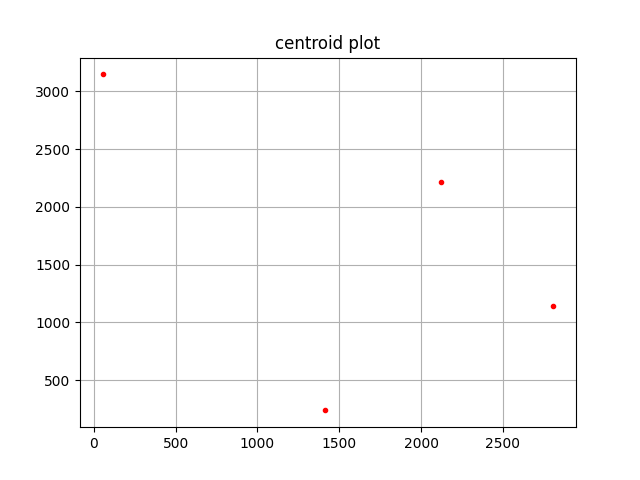
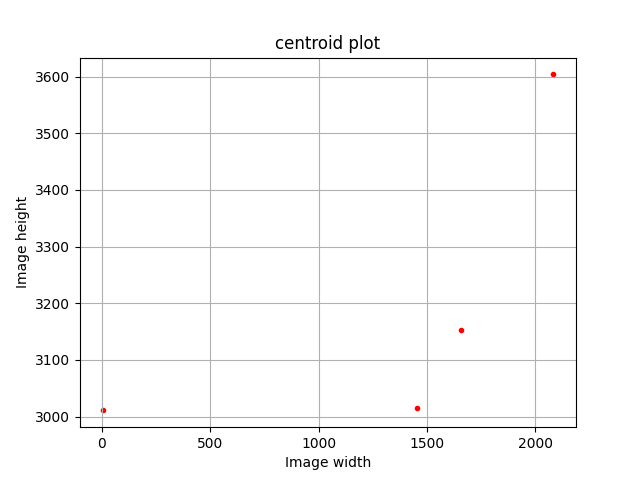
partial implementation of k-means

diff --git a/src/core/kmeans.py b/src/core/kmeans.py
@@ -7,36 +7,151 @@ import random
 from src.core.kmeans import *
 from src.processing.models import *
 
-def two_means(img: ELMImage, k: int):
-    hsv_arr = img.hsv_arr
+def k_means(img: ELMImage, k: int, select: int):
     rgb_arr = img.rgb_arr
 
-    # dictionary for all clusters
-    clusters = {}
+    centroids = []
+
+    r, g, b = cv2.split(rgb_arr)
+
+    r = np.array(r.flatten())
+    g = np.array(g.flatten())
+    b = np.array(b.flatten())
+
+    
 
     # idea for centroid key is the # of the centroid, value coresponds to the coordiante
-    centroids = generate_centroids(img.width, img.height, k)
+    if select == 1:
+        centroids = generate_rgb_centroids(k)
+    elif select == 0:
+        centroids = generate_hsv_centroids(k)
+    
+    pixels = len(r)
 
-    # # iterate over entire image
-    # for i in range(img.width):
-    #     for j in range(img.height):
+    # exit conditions
+    # i.e. exit when max iterations reached on the centroid stops moving
+    max_iter = 8
+    moved = True
 
-def generate_centroids(width: int, height: int, k: int):
-    centroids = {}
+    iter = 0
+
+    while moved and iter <= max_iter:
+        iter += 1
+
+        # initialize an assignment array of size pixels
+        # each indice represents a pixel and contains the closest distance to a centroid
+        assignment = [0]*pixels
+
+        # for each pixel
+        for i in range(pixels):
+
+            # create distance array size of number of k-means
+            # basically we calculate the distance for a given pixel, determine which one it is the min to
+            # and then assign it to that centroid
+            distances = [0]*k
+            for j in range(k):
+                distances[j] = distance(centroids[j], [r[i], g[i], b[i]])
+
+            # find the smallest distance, corresponding to a centroid k
+            # closest is an indice corresponding to closest k centroid
+            closest = np.argmin(distances)
+
+
+            assignment[i] = closest
+
+        # use prev_centroid to compare with curr centroid to see if centroid have moved or not
+        prev_centroids = centroids.copy()
+        
+        # calculate the mean for each cluster
+        for i in range(k):
+
+            # get a list of pixel indices that correspond to the i-th k-mean
+            ind = [j for j in range(pixels) if assignment[j] == i]
+
+            # calculate the new mean for each cluster
+            # i.e. we find the mean for each channel by averaging all the relevant pixels' channels
+            if len(ind) != 0:
+                centroids[i][0] = np.mean(r[ind])
+                centroids[i][1] = np.mean(g[ind])
+                centroids[i][2] = np.mean(b[ind])
+            
+            # if cluster empty then must mean that color is not part of image
+            else:
+                centroids[i][0] = 0
+                centroids[i][1] = 0
+                centroids[i][2] = 0
+
+        # check if the centroids have moved after each iteration
+        if np.array_equal(centroids, prev_centroids):
+            moved =  False
+    
+    r_copy = np.array(r.copy())
+    g_copy = np.array(g.copy())
+    b_copy = np.array(b.copy())
+
+    # update pixels to match their corresponding cluster
+    for i in range(k):
+        ind = [j for j in range(pixels) if assignment[j] == i]
+
+        r_copy[ind] = centroids[i][0]
+        g_copy[ind] = centroids[i][1]
+        b_copy[ind] = centroids[i][2]
+    
+    img2 = np.array([r_copy, g_copy, b_copy])
+
+    img2 = img2.transpose()
+
+    img2 = img2.reshape(img.shape)
+
+    plt.axis('off')
+    plt.imshow(img2)
+
+    plt.savefig("2k-means.png", format="png", dpi=600)
+
+
+
+        
+
+
+
+
+
+
+
+    
+ 
+def generate_rgb_centroids(k: int):
+    centroids = []
 
     for i in range(k):
         # assign randomly generated centroids
-        x = random.randint(0, width - 1)
-        y = random.randint(0, height - 1)
-        centroids[f"c{i + 1}"] = (x,y)
+        r = random.randint(0, 255)
+        g = random.randint(0, 255)
+        b = random.randint(0, 255)
+        centroids.append((r,g,b))
     
     return centroids
 
+def generate_hsv_centroids(k: int):
+    centroids = []
+
+    for i in range(k):
+        h = random.randint(0, 179)
+        s = random.randint(0, 255)
+        v = random.randint(0, 255)
+        centroids.append((h,s,v))
+
+    return centroids
+
+
+
 
 # Calculates the Euclidean distance between the two based on the
-# distance
+# Since we are using image segmentation use the channels instead of actual distance
+# Maybe make arguments as (x,y) tuple
+# p1 and p2 are pixels in the image, colour is split into three channels in a list
 def distance(p1, p2):
-    return np.sqrt(np.sum((p1-p2)**2))
+    return np.sqrt((p1[0] - p2[0])**2 + (p1[1] - p2[1])**2 + (p1[2] - p2[2])**2)
 
 
 

diff --git a/tests/test_kmeans.py b/tests/test_kmeans.py
@@ -7,39 +7,25 @@ from src.core.kmeans import *
 from src.processing.models import *
 
 # tests the x,y coordinates generated from the function
-def test_centroid_gen_key():
-    dir = "data/test-images/img1.png"
-    img = ELMImage(dir)
+def test_rgb_centroid_gen():
     k = 2
-    actual_centroids = generate_centroids(img.width, img.height, k)
-    centroid_keys = list(actual_centroids.keys())
-    for i in range(k):
-        assert centroid_keys[i] == f"c{i + 1}"
+    centroids = generate_rgb_centroids(k)
 
-# disregard test, want to see what it looks like in 2d
-def test_centroid_plot():
-    dir = "data/raw/20241116_110324.jpg"
-    img = ELMImage(dir)
+    for centroid in centroids:
+        for i in range(3):
+            assert 0 <= centroid[i] and 255 >= centroid[i]
 
-    # change this for the number of centroids
-    k = 4
+def test_rgb_centroid_gen():
+    k = 2
+    centroids = generate_rgb_centroids(k)
 
-    centroids = generate_centroids(img.width, img.height, k)
-    centroid_keys = list(centroids.keys())
-    centroid_x = []
-    centroid_y = []
+    for centroid in centroids:
+        assert 0 <= centroid[0] and 179 >= centroid[0]
+        assert 0 <= centroid[1] and 255 >= centroid[1]
+        assert 0 <= centroid[2] and 255 >= centroid[2]
+    
 
-
-    for i in range(len(centroid_keys)):
-        # store the x,y value of the centroids
-        centroid_x.append(centroids[f"c{i + 1}"][0]) 
-        centroid_y.append(centroids[f"c{i + 1}"][1])
-
-    plt.scatter(centroid_x, centroid_y, color='red', marker='.')
-    plt.grid(True)
-    plt.title('centroid plot')
-    plt.show()
-    plt.savefig("data/output/centroid_plot.png")
+    
 
 
 

diff --git a/src/processing/models.py b/src/processing/models.py
@@ -2,6 +2,7 @@
 import cv2
 import numpy as np
 import matplotlib.pyplot as plt
+import matplotlib.colors as mcolors
 
 class ELMImage:
 
@@ -20,8 +21,8 @@ class ELMImage:
         self.height, self.width = self.rgb_arr.shape[:2]
         self.illuminated_mask = None
         self.panel_mask = None
-    
-    
+
+
     # display scatter plots
     def disp_rgb_scatter(self):
         # create 3d plot and figure
@@ -60,9 +61,16 @@ class ELMImage:
         s_flat = s.flatten()
         v_flat = v.flatten()
 
-        hsv_colors = np.vstack((h_flat, s_flat, v_flat)).T / 255.0
+        hsv_colors = np.vstack((h_flat, s_flat, v_flat)).T.astype(np.float32)
 
-        ax.scatter(h_flat, s_flat, v_flat, c=hsv_colors, marker='.')
+        norm_factors = np.array([179.0, 255.0, 255.0])
+
+        normalized_hsv = hsv_colors / norm_factors
+
+        # convert to rgb to colour the scatter plot
+        rgb_colors = mcolors.hsv_to_rgb(normalized_hsv)
+
+        ax.scatter(h_flat, s_flat, v_flat, c=rgb_colors, marker='.')
 
         ax.set_xlabel('H axis')
         ax.set_ylabel('S axis')

diff --git a/tests/test_model.py b/tests/test_model.py
@@ -50,15 +50,15 @@ def test_rgb_shape():
     print(rgb_arr.shape)
     print(rgb_arr)
 
-# def test_rgb_scatter():
-#     dir = "data/raw/20241116_110324.jpg"
-#     img = ELMImage(dir)
-#     img.disp_rgb_scatter()
+def test_rgb_scatter():
+    dir = "data/raw/20241116_110324.jpg"
+    img = ELMImage(dir)
+    img.disp_rgb_scatter()
 
-# def test_hsv_scatter():
-#     dir = "data/raw/20241116_110324.jpg"
-#     img = ELMImage(dir)
-#     img.disp_hsv_scatter()
+def test_hsv_scatter():
+    dir = "data/raw/20241116_110324.jpg"
+    img = ELMImage(dir)
+    img.disp_hsv_scatter()
 
 def test_resize_img():
     dir = "data/raw/20241116_110324.jpg"
